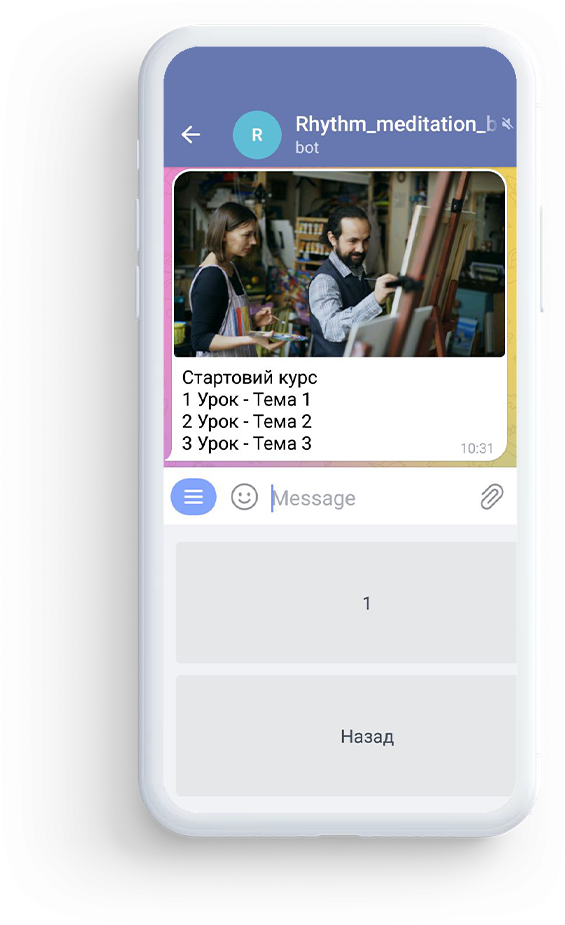
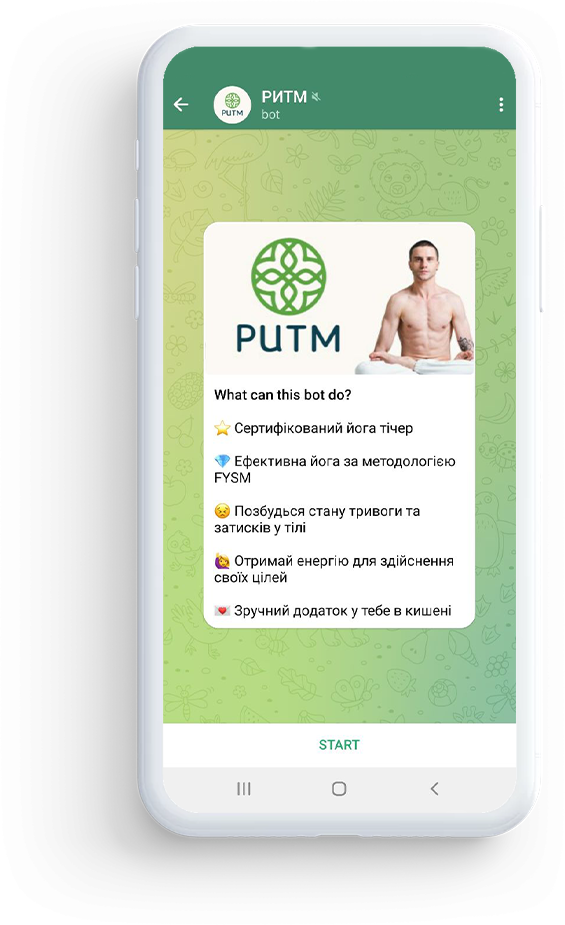
-

diff --git a/Index.html b/Index.html
@@ -102,7 +102,7 @@
                 <aside class="bot-text-1">
                     <h1 class="cream-text">Один клік здатний змінити життя</h1>
                     <aside class="phone small">
-                        <img src="Images/Phone1.png" alt="">
+                        <img src="Images/Phone2.png" alt="">
                     </aside>
                     <p class="cream-text">
                         - Долучись до унікального бота - БЕЗКОШТОВНО <br> <br>
@@ -117,7 +117,7 @@
                     </div>
                 </aside>
                 <aside class="phone huge">
-                    <img src="Images/Phone1.png" alt="">
+                    <img src="Images/Phone2.png" alt="">
                 </aside>
 
             </div>

diff --git a/Style.css b/Style.css
@@ -799,6 +799,10 @@ footer{
     overflow: hidden;
     padding-bottom: 80px;
 }
+.bot-2 .phone {
+    text-align: right;
+}
+
 .feedback_block_main{
     padding-top: 100px;
     padding-bottom: 100px;
@@ -1454,6 +1458,9 @@ textarea{
     }
     .small{
         display: block;
+    }
+    .small img{
+        padding-right: 5%;
     }
     .huge{
         display: none;
